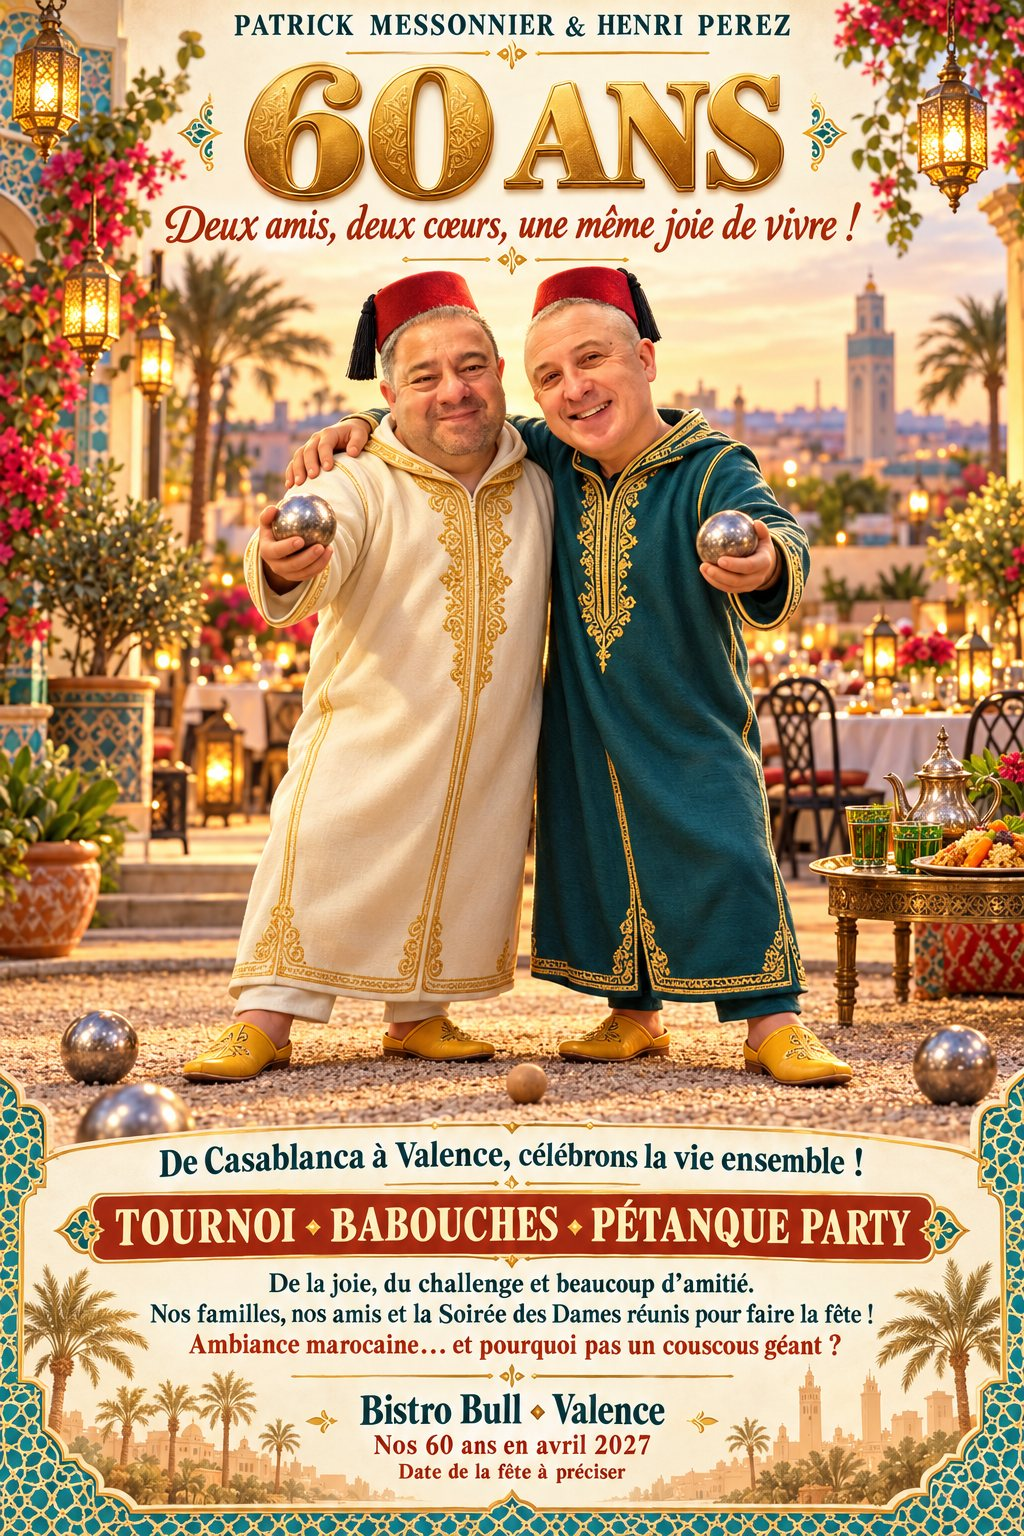
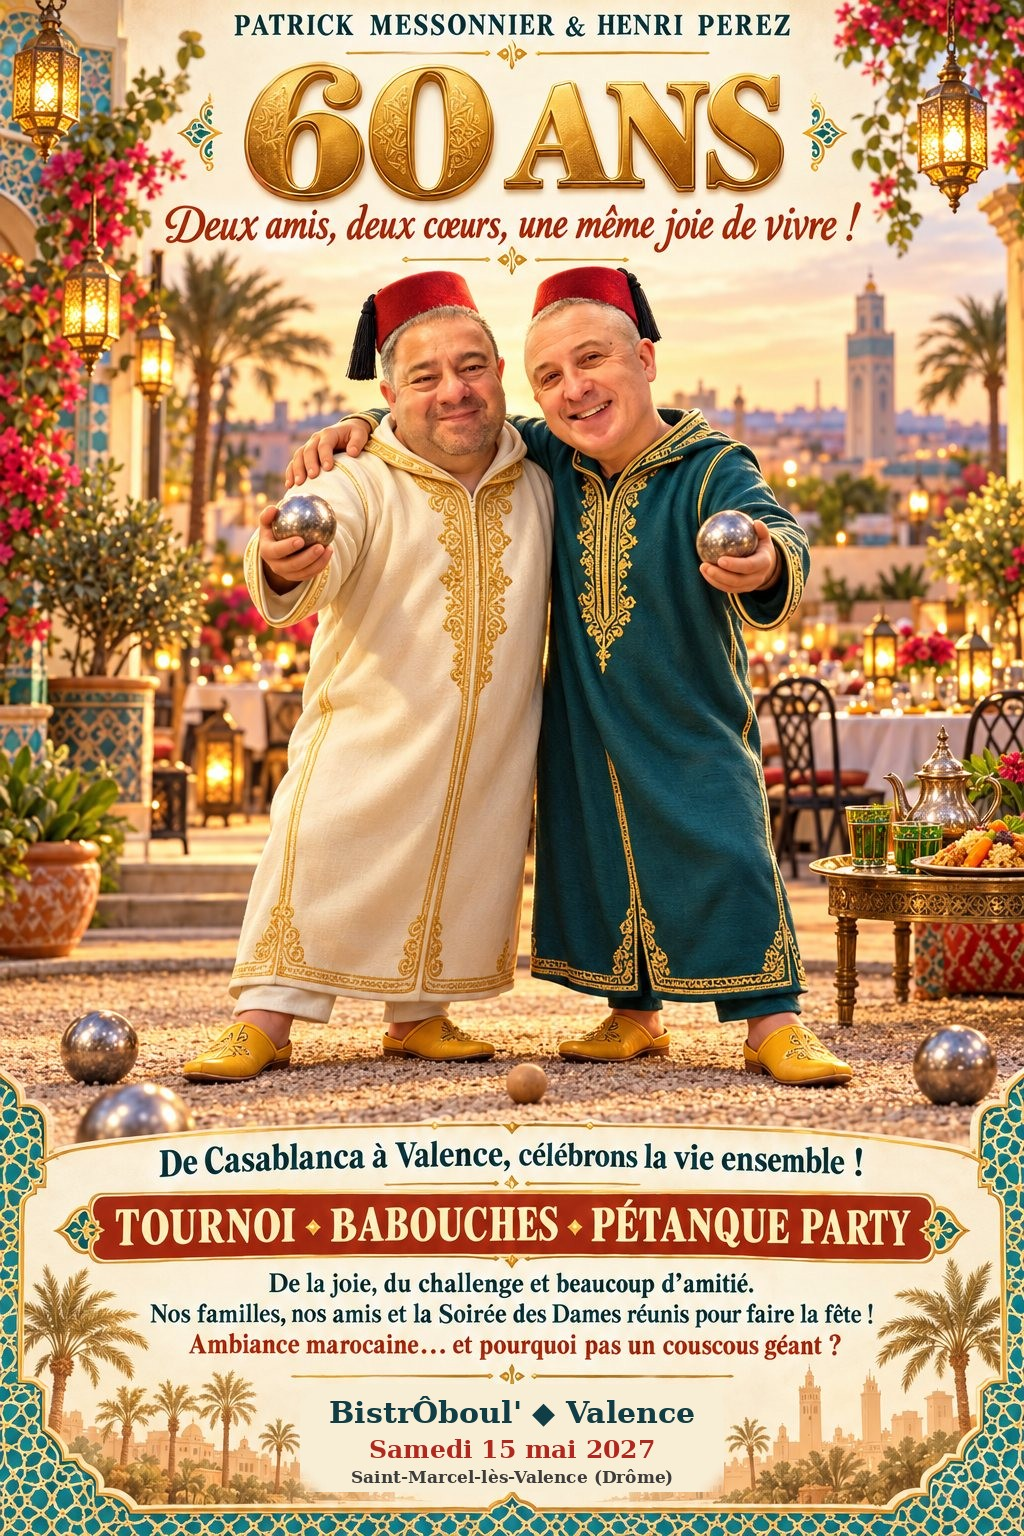
Invitation : hôtes autour de l'affiche (lieu corrigé) ; Je réponds : liste déroulante des invités et lien mail pour les non-listés
Claude-Session: https://claude.ai/code/session_01FokGjSqUkGYbCKC1b9Y5Uv

Changed region(s): [[0.2812, 0.9062, 0.7188, 0.9688]]

diff --git a/index.html b/index.html
@@ -431,6 +431,22 @@ footer .script{font-size:1.9rem;color:var(--fez);margin-bottom:6px;display:block
 .trombi.t-mini .t-cadre{padding:4px;gap:4px}
 .trombi.t-compact .t-cadre{padding:6px;border-width:2px;border-radius:12px}
 @media(max-width:420px){.trombi{--t:min(var(--t,160px),130px)}.t-photo{width:min(var(--t,160px),130px);height:min(var(--t,160px),130px)}.t-photo-duo{width:min(calc(var(--t,160px) * 2 + 10px),276px);height:min(calc(var(--t,160px) * 1.35),184px)}}
+
+/* Invitation : les hôtes de part et d'autre de l'affiche */
+.trio{display:grid;grid-template-columns:minmax(0,1fr) minmax(0,.72fr) minmax(0,1fr);gap:22px;align-items:center;margin-top:40px}
+.trio .t-orient{padding:10px}
+.trio .t-orient-in{aspect-ratio:4/3}
+.trio .t-orient-in button,.trio .affiche-centre{padding:0;border:0;background:none;cursor:zoom-in;display:block;width:100%;height:100%}
+.trio .affiche-centre{border:3px solid var(--or);border-radius:16px;overflow:hidden;box-shadow:0 18px 40px rgba(80,40,10,.22);transition:transform .25s}
+.trio .affiche-centre:hover{transform:translateY(-4px)}
+.trio .affiche-centre img{display:block;width:100%;aspect-ratio:2/3;object-fit:cover}
+.trio .t-orient-in img{width:100%;height:100%;object-fit:cover;display:block}
+.trio .t-orient figcaption{font-size:1.15rem}
+@media(max-width:760px){.trio{grid-template-columns:1fr 1fr;gap:14px}.trio .affiche-centre{grid-column:1/-1;grid-row:1;max-width:280px;justify-self:center}.trio .t-orient figcaption{font-size:.95rem;padding:4px 10px}}
+.t-note{text-align:center;color:var(--encre-douce);margin:-10px 0 22px}.t-note a{color:var(--fez);font-weight:800}
+.choix-nom{display:grid;gap:6px;font-weight:800;color:var(--zellige)}
+.choix-nom select{font:inherit;font-weight:700;padding:13px 16px;border-radius:14px;border:2px solid var(--or);background:var(--carte);color:var(--encre)}
+.trouve .ou{text-align:center;color:var(--encre-douce);font-weight:700;margin:-6px 0}
 /* Prénoms et noms : jamais en capitales */
 .hotes,.heros h3,.card h3,.fiche h3,.inv-head h2,.surprise-carte h3{font-family:var(--f-script);font-style:italic;font-weight:700;text-transform:none;letter-spacing:0}
 
@@ -558,13 +574,9 @@ footer .script{font-size:1.9rem;color:var(--fez);margin-bottom:6px;display:block
         <div class="film-txt">
           <span class="bandeau">Tournoi · Babouches · Pétanque party</span>
           <p>Deux amis du Maroc, passionnés de pétanque et amoureux de la vie, fêtent leurs 60 ans. Nos familles, nos amis et la Soirée des Dames réunis pour faire la fête. Ambiance marocaine… et pourquoi pas un couscous géant ?</p>
-          <div class="affiches" id="affiches">
-            <button type="button" data-src="media/affiche-casablanca.jpg"><img src="media/affiche-casablanca.jpg" alt="Affiche « De Casablanca au cochonnet »" loading="lazy"></button>
-            <button type="button" data-src="media/affiche-60ans.jpg"><img src="media/affiche-60ans.jpg" alt="Affiche « 60 ans, deux amis, deux cœurs »" loading="lazy"></button>
-            <button type="button" data-src="media/affiche-tournoi.jpg"><img src="media/affiche-tournoi.jpg" alt="Affiche « Tournoi, babouches, pétanque party »" loading="lazy"></button>
-          </div>
         </div>
       </div>
+      <div class="trio" id="affiches" aria-label="Les hôtes du jour et l'affiche"></div>
     </div>
   </section>
 
@@ -690,12 +702,16 @@ footer .script{font-size:1.9rem;color:var(--fez);margin-bottom:6px;display:block
       </div>
 
       <div class="trouve">
+        <label class="choix-nom"><span>Choisis ton nom dans la liste des invités</span>
+          <select id="choix-nom"><option value="">— Sélectionne ton nom —</option></select>
+        </label>
+        <p class="ou">ou tape ton prénom :</p>
         <label class="search trouve-q">
           <svg viewBox="0 0 24 24"><circle cx="11" cy="11" r="7"/><path d="m20 20-4-4"/></svg>
           <input id="trouve-q" type="search" placeholder="Tape ton prénom…" autocomplete="off" aria-label="Retrouver ton invitation">
         </label>
         <div class="trouve-res" id="trouve-res" aria-live="polite">
-          <p class="trouve-vide">Tape ton prénom ou clique sur ton nom dans la liste plus bas.</p>
+          <p class="trouve-vide">Choisis ton nom ou tape ton prénom.</p>
         </div>
       </div>
 
@@ -870,7 +886,7 @@ const CONFIG = {
   deadline: "15 avril 2027",
   formUrl: "https://docs.google.com/forms/d/e/1FAIpQLSe8FPssBQTnPlVSV5xzJ2NOKEL3VBMaSE-dO3y3qUtQZjEs0Q/viewform",   // lien du formulaire → génère le QR code
   formPrefill: "",             // lien pré-rempli contenant PRENOM et NOM → pré-remplit chaque carte invité
-  champs: { invitation: "entry.646744032", prenom: "entry.607566091", accompagnant: "entry.869786299" },
+  champs: { invitation: "entry.646744032", prenom: "entry.607566091", accompagnant: "entry.869786299", nomListe: "entry.1301711577" },
   valeurs: { solo: "Toi seul·e", duo: "Toi et ton conjoint·e ou ami·e" },
 
   /* --- Liste des invités en direct --- */
@@ -1161,7 +1177,7 @@ function renderTrombi(){
   box.style.setProperty("--t", t + "px");
   box.classList.toggle("t-compact", unites > 20);
   box.classList.toggle("t-mini", unites > 45);   /* au-delà de 45 personnes : les hôtes passent en médaillons pour laisser la place */
-  box.innerHTML = `<h3 class="t-titre">Les hôtes du jour</h3>${hotes}<h3 class="t-titre">Les invités</h3><div class="t-grille">${cartes}${places.split("</a>").slice(0,nPlaces).map(x=>x+"</a>").join("")}</div>`;
+  box.innerHTML = `<p class="t-note">Les hôtes du jour, Patrick & Corinne et Henri & Stéphanie, vous accueillent sur <a href="#invitation">l'onglet Invitation</a>.</p><div class="t-grille">${cartes}${places.split("</a>").slice(0,nPlaces).map(x=>x+"</a>").join("")}</div>`;
 }
 function render(){
   renderStats(); renderHeros(); renderTrombi();
@@ -1426,7 +1442,7 @@ function drawQR(url){
 function lienFormule(formule, inv){
   if (!CONFIG.formUrl) return "";
   const c = CONFIG.champs, q = ["usp=pp_url", c.invitation + "=" + encodeURIComponent(CONFIG.valeurs[formule])];
-  if (inv){ q.push(c.prenom + "=" + encodeURIComponent(inv[0]));
+  if (inv){ q.push(c.prenom + "=" + encodeURIComponent(inv[0]), c.nomListe + "=" + encodeURIComponent(invNom(inv)));
     if (formule === "duo" && inv[3]) q.push(c.accompagnant + "=" + encodeURIComponent(inv[3])); }
   return CONFIG.formUrl + "?" + q.join("&");
 }
@@ -1460,11 +1476,12 @@ function ficheInv(i){
 function montrerInv(liste){
   const res = document.getElementById("trouve-res"); res.innerHTML = "";
   document.querySelectorAll(".deux-qr .qr-card").forEach(c=>c.classList.remove("choisie"));
-  if (!liste.length){ res.innerHTML = '<p class="trouve-vide">Pas trouvé : vérifie l\'orthographe, ou appelle Henri au 06 31 04 20 42.</p>'; return; }
+  if (!liste.length){ res.innerHTML = '<p class="trouve-vide">Pas trouvé : vérifie l\'orthographe, ou <a class="lien-mail" href="'+MAIL_LISTE+'">signale-le-nous par mail</a>.</p>'; return; }
   if (liste.length > 4){ res.innerHTML = '<p class="trouve-vide">Continue à taper ton prénom…</p>'; return; }
   liste.forEach(i=> res.appendChild(ficheInv(i)));
   if (liste.length === 1) document.querySelector(`.deux-qr .qr-card[data-formule="${invForm(liste[0])}"]`).classList.add("choisie");
 }
+const MAIL_LISTE = "mailto:perez.henri.contact@gmail.com?subject=BIDAOUI-60%20%E2%80%93%20Je%20ne%20suis%20pas%20sur%20la%20liste&body=Bonjour%20Patrick%20et%20Henri%2C%0A%0AJe%20ne%20trouve%20pas%20mon%20nom%20dans%20la%20liste%20des%20invit%C3%A9s.%20Pr%C3%A9nom%20et%20nom%20%3A%20...%0A";
 const HOTES_IDS = HOTES.map(h=>slug(h.first + " " + h.ini));
 const INV_PUB = INVITATIONS.filter(i=> !HOTES_IDS.includes(slug(i[0] + " " + i[1])));
 function initListe(){
@@ -1482,6 +1499,13 @@ function initListe(){
         document.querySelector(".trouve").scrollIntoView({behavior:"smooth", block:"start"}); };
       box.appendChild(b); }); };
   remplir("liste-solo", solo); remplir("liste-duo", duo);
+  const selNom = document.getElementById("choix-nom");
+  tri(INV_PUB).forEach(i=>{ const o = document.createElement("option"); o.value = INV_PUB.indexOf(i); o.textContent = invNom(i); selNom.appendChild(o); });
+  const o2 = document.createElement("option"); o2.value = "absent"; o2.textContent = "Mon nom n'est pas dans la liste"; selNom.appendChild(o2);
+  selNom.onchange = ()=>{ const v = selNom.value; document.getElementById("trouve-q").value = "";
+    if (v === "absent"){ document.getElementById("trouve-res").innerHTML = '<p class="trouve-vide">Ce formulaire est réservé aux personnes invitées. S\'il s\'agit d\'une erreur ou d\'un oubli, <a class="lien-mail" href="'+MAIL_LISTE+'">signale-le-nous par mail</a> : nous te répondrons très vite.</p>'; return; }
+    if (v === ""){ document.getElementById("trouve-res").innerHTML = '<p class="trouve-vide">Choisis ton nom ou tape ton prénom.</p>'; return; }
+    montrerInv([INV_PUB[+v]]); };
   document.getElementById("trouve-q").addEventListener("input", e=>{
     const q = slug(e.target.value); if (q.length < 2){ document.getElementById("trouve-res").innerHTML = '<p class="trouve-vide">Tape ton prénom ou clique sur ton nom dans la liste plus bas.</p>'; return; }
     montrerInv(INV_PUB.filter(i=> slug(invNom(i)).startsWith(q) || slug(i[0]).startsWith(q)));
@@ -1644,6 +1668,13 @@ function renderSurprises(){
     </article>`; }).join("");
 }
 renderSurprises();
+
+/* ===== Onglet Invitation : hôtes + affiche du milieu ===== */
+(function(){
+  const cadre = h => `<figure class="t-orient"><div class="t-orient-in">${h.photo ? `<button type="button" data-src="${esc(h.photo)}"><img src="${esc(h.photo)}" alt="${esc(h.noms)} en tenue marocaine"></button>` : `<div class="t-vide"><span>Photo à venir</span></div>`}</div><figcaption>${esc(h.noms)}</figcaption></figure>`;
+  document.getElementById("affiches").innerHTML = cadre(HOTES_TROMBI[0]) +
+    `<button type="button" class="affiche-centre" data-src="media/affiche-60ans.jpg"><img src="media/affiche-60ans.jpg" alt="Affiche « 60 ans, deux amis, deux cœurs »"></button>` + cadre(HOTES_TROMBI[1]);
+})();
 
 /* ===== Onglet Hôtels ===== */
 (function(){
